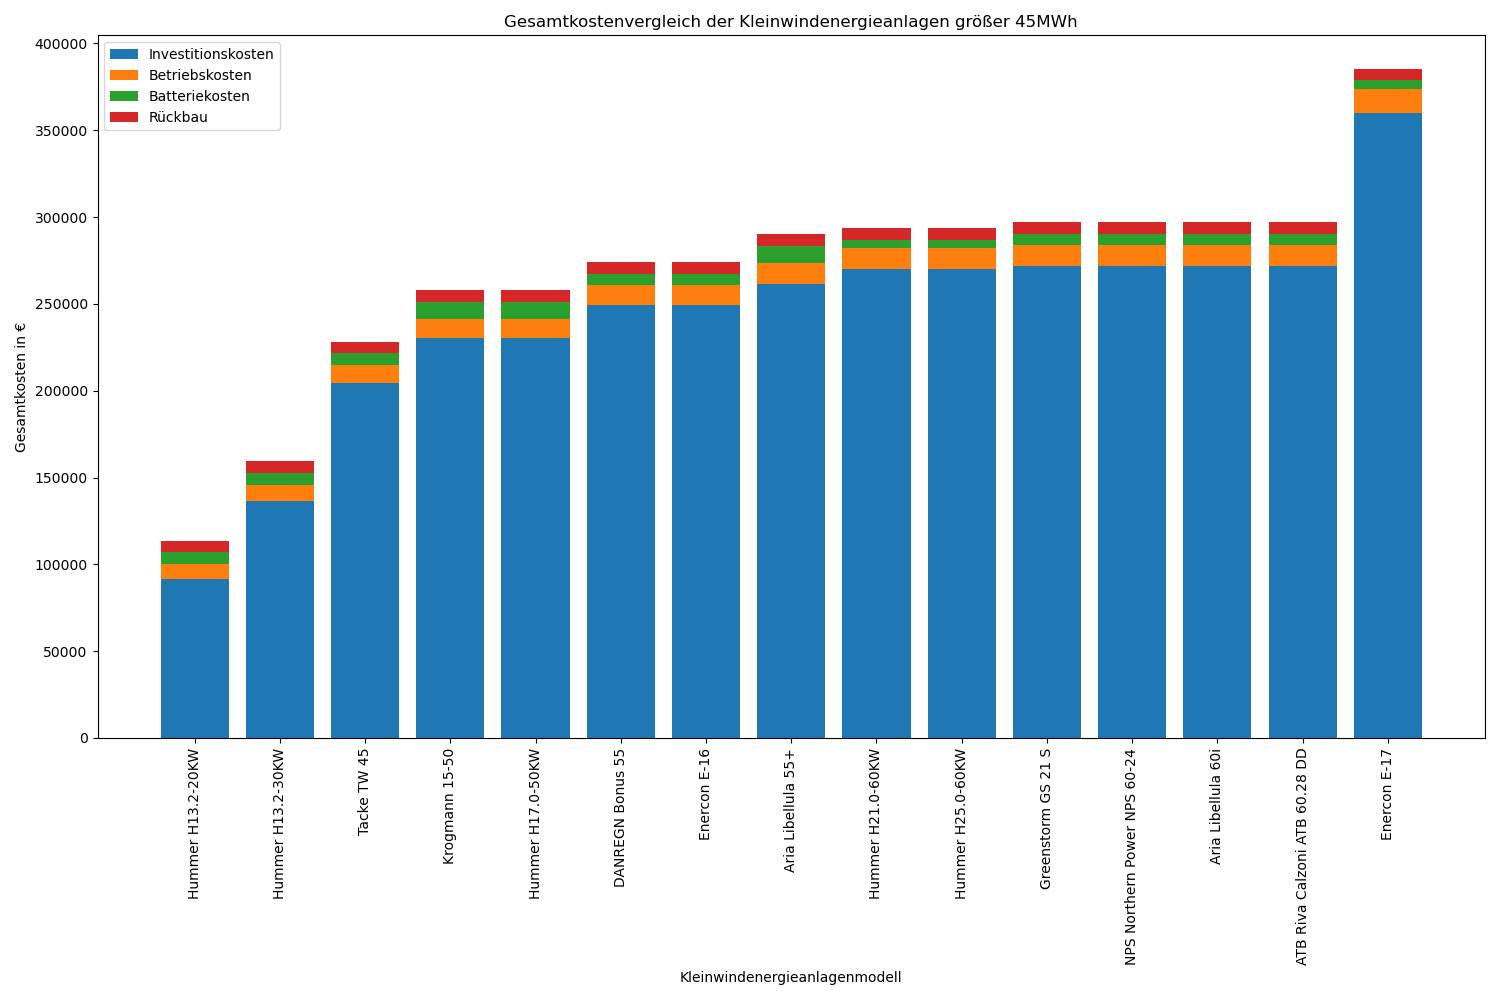
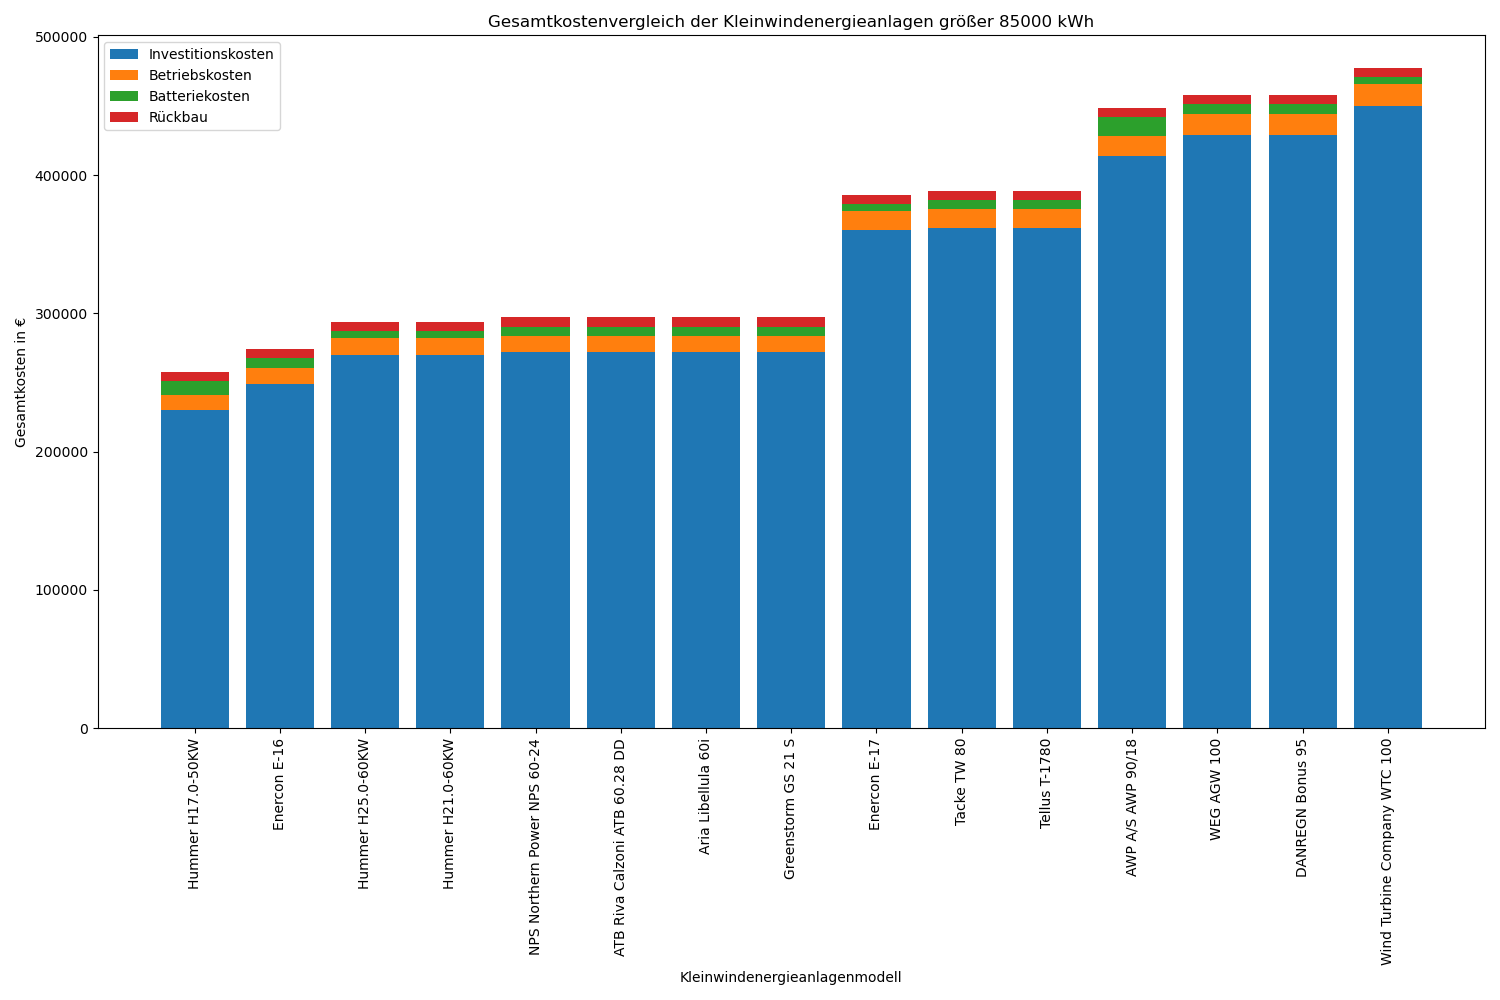
update code

diff --git a/plots.py b/plots.py
@@ -4,15 +4,15 @@ import matplotlib.pyplot as plt
 from windrose import WindroseAxes
 from scipy.stats import weibull_min
 
-def plot_all(data_tech_path, save_path_powerdata, nr_of_top):
+def plot_all(data_tech_path, save_path_powerdata, p_req, nr_of_top):
     '''
     Dieses Modul beinhaltet die Funktionen für den Plot einer Windrose und der Weibullverteilung
     und Kostenvergleich.
     '''
 
-    #Filtern von Anlagen kleiner als 45MWh im Jahr
+    #Filtern von Anlagen kleiner als bedarf im Jahr
     data_wind_red = pd.read_excel(save_path_powerdata)
-    Turbines_bigger_45kWh = data_wind_red.iloc[:, 8:].cumsum(axis=0).columns[(data_wind_red.iloc[:, 8:].cumsum(axis=0).iloc[-1, :] >= 45000)].tolist()
+    Turbines_bigger_45kWh = data_wind_red.iloc[:, 8:].cumsum(axis=0).columns[(data_wind_red.iloc[:, 8:].cumsum(axis=0).iloc[-1, :] >= p_req)].tolist()
 
     #Erstellen von sortierten dfs für die plots
     cost_data_raw = pd.read_excel(data_tech_path).set_index('Turbine')
@@ -44,7 +44,7 @@ def plot_all(data_tech_path, save_path_powerdata, nr_of_top):
     plt.bar(turbine_names_45kW, lcoe_values_45kW)
     plt.xlabel('Kleinwindenergieanlagenmodell')
     plt.ylabel('LCOE in €/kWh')
-    plt.title('LCOE für Turbinen größer 45MWh')
+    plt.title('LCOE für Turbinen größer '+ str(round(p_req)) + " kWh")
     plt.xticks(rotation=90)
     plt.tight_layout()
     plt.savefig('data/LCOE45.png')
@@ -92,7 +92,7 @@ def plot_all(data_tech_path, save_path_powerdata, nr_of_top):
     plt.bar(cost_data_45kW_Ges, cost_data_45kW.loc[cost_data_45kW_Ges]['Rückbaukosten'], bottom=cost_data_45kW.loc[cost_data_45kW_Ges]['Stacked Costs'] - cost_data_45kW.loc[cost_data_45kW_Ges]['Rückbaukosten'], label='Rückbau')
     plt.xlabel('Kleinwindenergieanlagenmodell')
     plt.ylabel('Gesamtkosten in €')
-    plt.title('Gesamtkostenvergleich der Kleinwindenergieanlagen größer 45MWh')
+    plt.title('Gesamtkostenvergleich der Kleinwindenergieanlagen größer ' + str(round(p_req)) + " kWh")
     plt.legend()
     plt.xticks(rotation=90)
     plt.tight_layout()
@@ -118,7 +118,7 @@ def plot_all(data_tech_path, save_path_powerdata, nr_of_top):
     plt.bar(cost_data_45kW_Neb, cost_data_45kW.loc[cost_data_45kW_Neb]['Rückbaukosten'], bottom=cost_data_45kW.loc[cost_data_45kW_Neb]['Betriebskosten'] + cost_data_45kW.loc[cost_data_45kW_Neb]['battery cost'], label='Rückbaukosten', color='red')
     plt.xlabel('Kleinwindenergieanlagenmodell')
     plt.ylabel('Nebenkosten in €')
-    plt.title('Nebenkostenvergleich der Kleinwindenergieanlagen größer 45MWh')
+    plt.title('Nebenkostenvergleich der Kleinwindenergieanlagen größer ' + str(round(p_req)) + " kWh")
     plt.legend()
     plt.xticks(rotation=90)
     plt.tight_layout()

diff --git a/interface.py b/interface.py
@@ -7,7 +7,8 @@ def get_user_values():
 
     # Funktion zum Speichern der Werte und Beenden der GUI
     def save_values():
-        global roughness_length, p_min, single_cell_energy, single_cell_cost, interest_rate, lifetime, capex, save_path_powerdata, data_power_curve_path, data_tech_path, data_wind_path
+        global p_req, roughness_length, p_min, single_cell_energy, single_cell_cost, interest_rate, lifetime, capex, save_path_powerdata, data_power_curve_path, data_tech_path, data_wind_path
+        p_req = float(entry_p_req.get())
         roughness_length = float(entry_roughness_length.get())
         p_min = float(entry_p_min.get())
         single_cell_energy = float(entry_single_cell_energy.get())
@@ -26,7 +27,13 @@ def get_user_values():
     root.geometry("400x550")  # Vergrößert die Höhe des Fensters
 
     # Label und Eingabefelder
-    label_roughness_length = tk.Label(root, text="Rauhigkeitslänge (m):")
+    label_p_req = tk.Label(root, text="Jahresenergiebedarf (kWh):")
+    label_p_req.pack()
+    entry_p_req = tk.Entry(root)
+    entry_p_req.insert(tk.END, "85000")
+    entry_p_req.pack()
+
+    label_roughness_length = tk.Label(root, text="Rauigkeitslänge (m):")
     label_roughness_length.pack()
     entry_roughness_length = tk.Entry(root)
     entry_roughness_length.insert(tk.END, "0.1")
@@ -112,6 +119,7 @@ def get_user_values():
 
     # Rückgabe der eingegebenen Werte
     return (
+        float(p_req),
         float(roughness_length),
         float(p_min),
         float(single_cell_energy),

diff --git a/Windenergieanlagen.py b/Windenergieanlagen.py
@@ -15,7 +15,7 @@ Anschließend werden aus den Daten die Leistungen der Turbinen stundengenau ermi
 """
 Nutzereingabe
 """
-roughness_length, p_min, single_cell_energy, single_cell_cost, interest_rate, lifetime, capex, save_path_powerdata, data_power_curve_path, data_tech_path, data_wind_path = get_user_values()
+p_req, roughness_length, p_min, single_cell_energy, single_cell_cost, interest_rate, lifetime, capex, save_path_powerdata, data_power_curve_path, data_tech_path, data_wind_path = get_user_values()
 
 """
 stündliche Leistungsdaten berechnen
@@ -45,4 +45,4 @@ tech_lcoe.to_excel(data_tech_path)
 """
 Plots
 """
-plot_all(data_tech_path, save_path_powerdata, nr_of_top=15)
+plot_all(data_tech_path, save_path_powerdata, p_req, nr_of_top=15)
